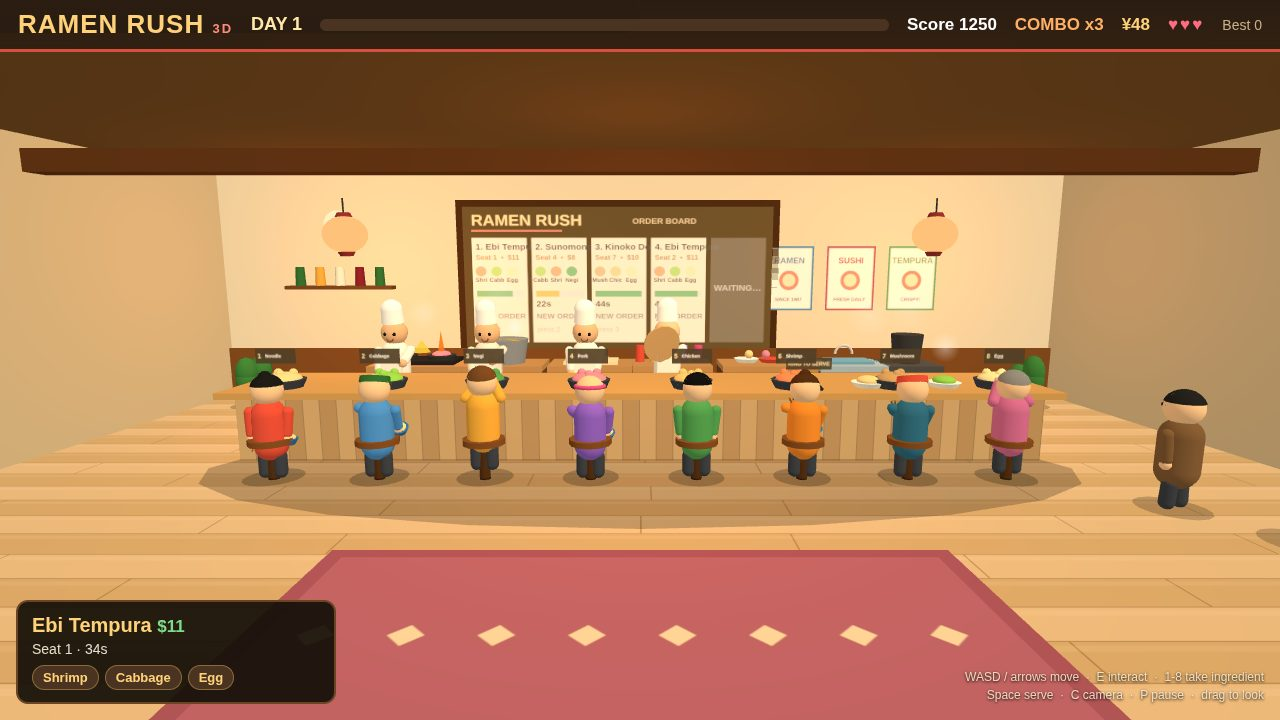
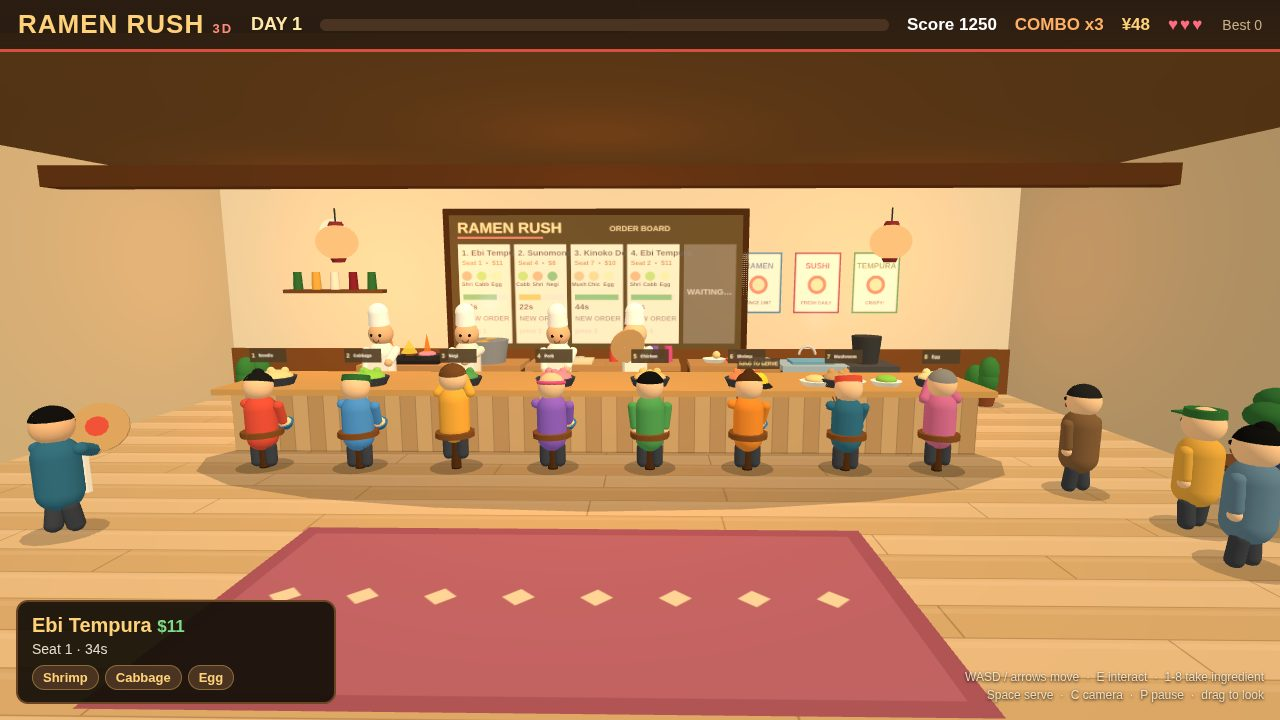
RAMEN RUSH 3D: title-screen shot 3 + denser background crowd

diff --git a/game/src/shots.js b/game/src/shots.js
@@ -1,27 +1,29 @@
 // RAMEN RUSH — four cameras, four genuinely different angles.
 // 1 = wide from the dining side (whole bar, like the reference)
 // 2 = close-up from the side, on the cooking stations
-// 3 = behind the counter, over the chef's shoulder, rush hour
+// 3 = title opening screen (big RAMEN RUSH title over the busy bar)
 // 4 = low from the dining side, watching the chef serve
 (function () {
   const RR = (window.RR = window.RR || {});
 
   const SHOTS = [
-    { name: '1-rush', pos: [0, 3.0, 10.5], target: [0, 1.25, -1.5] },
+    { name: '1-rush', pos: [0.8, 3.1, 11.3], target: [0.6, 1.25, -1.5] },
     { name: '2-plating', pos: [-8.6, 1.8, 3.6], target: [-3.2, 1.1, -1.6] },
-    { name: '3-rushhour', pos: [1.6, 2.5, -3.5], target: [-0.8, 1.0, 4.2] },
+    { name: '3-title', pos: [-3.5, 2.6, 9.0], target: [0, 1.3, -1.0] },
     { name: '4-burnt', pos: [4.6, 1.0, 5.2], target: [2.4, 1.5, -1.0] },
   ];
   RR.SHOTS = SHOTS;
 
   function setPeople(states) {
-    // states: {player, chefs:[...], customers:[...], queue:[...]}
+    // states: {player, chefs:[...], customers:[...], queue:[...], waiter, diners:[...]}
     const P = RR.people;
     if (!P) return;
     if (states.player) RR.setPersonState(P.player, states.player);
     (states.chefs || []).forEach((s, i) => { if (P.chefs[i]) RR.setPersonState(P.chefs[i], s); });
     (states.customers || []).forEach((s, i) => { if (P.customers[i]) RR.setPersonState(P.customers[i], s); });
     (states.queue || []).forEach((s, i) => { if (P.queue[i]) RR.setPersonState(P.queue[i], s); });
+    if (states.waiter && P.waiter) RR.setPersonState(P.waiter, states.waiter);
+    (states.diners || []).forEach((s, i) => { if (P.diners && P.diners[i]) RR.setPersonState(P.diners[i], s); });
   }
 
   function seedTickets(n, states) {
@@ -42,6 +44,9 @@
   function stageShot(n) {
     const G = RR.game;
     if (!G.started) RR.gameApi.startGame();
+    // title screen only on shot 3 (startGame hides it; show it back here)
+    const titleEl = document.getElementById('title-screen');
+    if (titleEl) titleEl.style.display = (n === 3) ? 'flex' : 'none';
     G.over = false;
     const P = RR.people;
     if (P) {
@@ -59,7 +64,9 @@
         player: 'carrying',
         chefs: ['stirring', 'stirring', 'chopping'],
         customers: ['eating', 'eating', 'happy', 'eating', 'idle', 'eating', 'eating', 'happy'],
-        queue: ['queue', 'queue', 'queue'],
+        queue: ['queue', 'queue', 'queue', 'queue', 'queue', 'queue'],
+        waiter: 'carrying',
+        diners: ['eating', 'eating'],
       });
     } else if (n === 2) {
       // Side close-up: stations at work, dish mid-assembly on the plating bar
@@ -71,21 +78,25 @@
         player: 'chopping',
         chefs: ['stirring', 'stirring', 'chopping'],
         customers: ['eating', 'idle', 'eating', 'eating', 'happy', 'idle', 'eating', 'eating'],
-        queue: ['queue', 'queue', 'queue'],
+        queue: ['queue', 'queue', 'queue', 'queue', 'queue', 'queue'],
+        waiter: 'carrying',
+        diners: ['eating', 'eating'],
       });
       if (P) { P.player.position.x = -1.0; }
     } else if (n === 3) {
-      // Over-the-shoulder rush hour: 5 tickets, flames, banner, chef rushing a tray
-      seedTickets(5, ['ready', 'cooking', 'new', 'new', 'new']);
+      // Title opening: big RAMEN RUSH title over the busy bar, 4 tickets up
+      seedTickets(4);
       G.score = 2140; G.money = 58; G.combo = 3; G.comboTimer = 11;
-      G.rush = true; G.rushLeft = 12; G.rushTimer = 0;
-      G.plate = ['Noodle', 'Shrimp', 'Mushroom']; G.plateRecipe = RR.RECIPES[4]; G.plateState = 'ready'; G.plateTimer = 1;
+      G.rush = false; G.rushLeft = 0; G.rushTimer = 0;
+      G.plate = ['Noodle', 'Shrimp', 'Mushroom']; G.plateRecipe = RR.RECIPES[4]; G.plateState = 'assembling'; G.plateTimer = 0;
       G.hands = ['Chicken', null];
       setPeople({
         player: 'carrying',
         chefs: ['stirring', 'stirring', 'chopping'],
         customers: ['happy', 'eating', 'eating', 'happy', 'eating', 'eating', 'happy', 'eating'],
-        queue: ['queue', 'queue', 'queue'],
+        queue: ['queue', 'queue', 'queue', 'queue', 'queue', 'queue'],
+        waiter: 'carrying',
+        diners: ['eating', 'eating'],
       });
       if (P) { P.player.position.x = 1.8; }
     } else {
@@ -98,7 +109,9 @@
         player: 'serve',
         chefs: ['stirring', 'stirring', 'idle'],
         customers: ['happy', 'happy', 'eating', 'eating', 'happy', 'eating', 'eating', 'sad'],
-        queue: ['queue', 'queue', 'queue'],
+        queue: ['queue', 'queue', 'queue', 'queue', 'queue', 'queue'],
+        waiter: 'carrying',
+        diners: ['happy', 'eating'],
       });
       if (P) { P.player.position.x = 2.6; P.player.position.z = -0.9; }
     }

diff --git a/game/src/main.js b/game/src/main.js
@@ -97,6 +97,9 @@
       { shirt: 0x7a5a3a, hairStyle: 'hair', hair: 0x222222 },
       { shirt: 0xd9a441, hairStyle: 'cap', capColor: 0x2e6b34 },
       { shirt: 0x5a7d9a, hairStyle: 'bun', hair: 0x111111 },
+      { shirt: 0x4f9e57, hairStyle: 'band', bandColor: 0x2e6b34 },
+      { shirt: 0x8a9ab0, hairStyle: 'hair', hair: 0x3a2a1a },
+      { shirt: 0xd94f3d, hairStyle: 'cap', capColor: 0xd94f3d },
     ];
     RR.QUEUE_SPOTS.forEach((s, i) => {
       const c = RR.makePerson(Object.assign({ role: 'customer' }, queueLooks[i]));
@@ -108,6 +111,26 @@
       scene.add(c);
       P.queue.push(c);
       addShadow(c, 0.4);
+    });
+
+    // one waiter carrying a tray across the dining floor (left side)
+    const waiter = RR.makePerson({ role: 'staff', shirt: 0x2e6b8a, skin: 0xe8b88a, hairStyle: 'hair', hair: 0x111111 });
+    waiter.position.set(-6.0, 0, 4.2);
+    waiter.rotation.y = Math.PI; // facing the kitchen
+    RR.setPersonState(waiter, 'carrying');
+    scene.add(waiter);
+    P.waiter = waiter;
+    addShadow(waiter, 0.4);
+
+    // two diners eating at the new side table (right dining area)
+    P.diners = [];
+    [[7.0, 6.6, 0xd94f8a], [8.0, 6.6, 0x4a90d9]].forEach(([x, z, shirt]) => {
+      const d = RR.makePerson({ role: 'customer', shirt, hairStyle: 'hair', hair: 0x222222 });
+      d.position.set(x, 0.55, z);
+      d.rotation.y = Math.PI; // face the kitchen, like the counter customers
+      RR.setPersonState(d, 'eating');
+      scene.add(d);
+      P.diners.push(d);
     });
   }
 
@@ -307,6 +330,8 @@
         P.chefs.forEach((c) => RR.animatePerson(c, elapsed, dt));
         P.customers.forEach((c) => RR.animatePerson(c, elapsed, dt));
         P.queue.forEach((c) => RR.animatePerson(c, elapsed, dt));
+        if (P.waiter) RR.animatePerson(P.waiter, elapsed, dt);
+        if (P.diners) P.diners.forEach((c) => RR.animatePerson(c, elapsed, dt));
       }
       updateEffects(dt);
       movePlayer(dt);

diff --git a/game/src/world.js b/game/src/world.js
@@ -383,6 +383,36 @@
     scene.add(table);
     shadowBlob(8.3, 3.6, 0.8, scene);
 
+    // ---- side dining table (right) with two stools for the extra diners ----
+    const sideTable = new T.Group();
+    sideTable.position.set(7.5, 0, 6.6);
+    const sTop = new T.Mesh(new T.BoxGeometry(1.4, 0.08, 0.9), lam(0x6b4423));
+    sTop.position.y = 0.7; sideTable.add(sTop);
+    [[-0.6, -0.35], [0.6, -0.35], [-0.6, 0.35], [0.6, 0.35]].forEach(([dx, dz]) => {
+      const leg = new T.Mesh(new T.BoxGeometry(0.08, 0.7, 0.08), lam(0x4a2c14));
+      leg.position.set(dx, 0.35, dz); sideTable.add(leg);
+    });
+    // plates + bowls on the table
+    [[-0.35, 0], [0.35, 0]].forEach(([dx, dz]) => {
+      const plate = new T.Mesh(new T.CylinderGeometry(0.24, 0.18, 0.07, 14), lam(0xf5f2ea));
+      plate.position.set(dx, 0.78, dz); sideTable.add(plate);
+      const food = new T.Mesh(new T.SphereGeometry(0.15, 10, 6), lam(0xf2d492));
+      food.position.set(dx, 0.83, dz); food.scale.y = 0.45; sideTable.add(food);
+    });
+    scene.add(sideTable);
+    shadowBlob(7.5, 6.6, 0.9, scene);
+    // stools for the two side-table diners
+    [[7.0, 6.6], [8.0, 6.6]].forEach(([x, z]) => {
+      const stool = new T.Group();
+      stool.position.set(x, 0, z);
+      const seat = new T.Mesh(new T.CylinderGeometry(0.3, 0.3, 0.08, 12), lam(0x7a4a22));
+      seat.position.y = 0.55; stool.add(seat);
+      const sleg = new T.Mesh(new T.CylinderGeometry(0.06, 0.08, 0.55, 8), lam(0x4a2c14));
+      sleg.position.y = 0.27; stool.add(sleg);
+      scene.add(stool);
+      shadowBlob(x, z, 0.4, scene);
+    });
+
     // ---- potted plants (corners) ----
     [[-8.3, 4.5], [-8.3, -3.2], [8.3, -3.2]].forEach(([x, z]) => {
       const potP = new T.Mesh(new T.CylinderGeometry(0.3, 0.22, 0.4, 12), lam(0x8a4a2a));

diff --git a/game/src/config.js b/game/src/config.js
@@ -59,5 +59,10 @@
     { x: 6.6, z: 2.8 },
     { x: 7.3, z: 3.8 },
     { x: 6.9, z: 4.9 },
+    // second half of the line, snaking back through the dining area
+    // (kept clear of the side-table diners at (7.0, 6.6) and (8.0, 6.6))
+    { x: 7.8, z: 5.9 },
+    { x: 6.2, z: 6.9 },
+    { x: 7.6, z: 7.6 },
   ];
 })();
